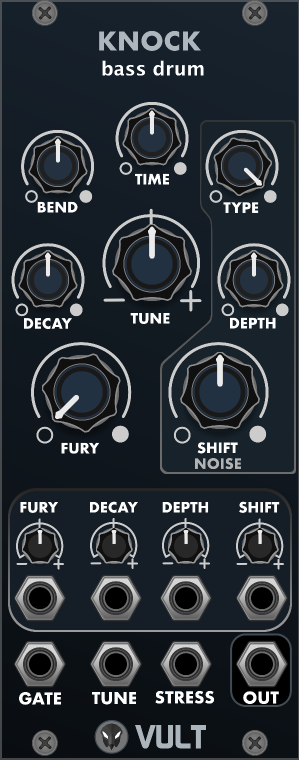
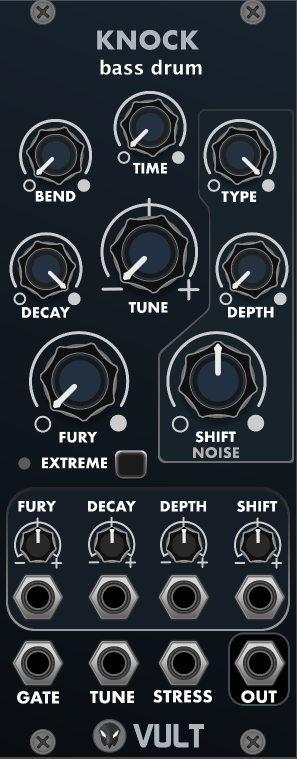
Improves the documentation of Basal, Bleak, Knock and Leakage

diff --git a/themes/vultmodules/layouts/partials/menu.html b/themes/vultmodules/layouts/partials/menu.html
@@ -60,6 +60,7 @@
       <a class="nav-link dropdown-toggle" data-toggle="dropdown" href="#" role="button" aria-haspopup="true"
          aria-expanded="false">Utilities</a>
       <div class="dropdown-menu">
+         <a class="dropdown-item" href="/leakage">Leakage</a>
          <a class="dropdown-item" href="/flux">Flux</a>
          <a class="dropdown-item" href="/spank">Spank</a>
          <a class="dropdown-item" href="/slap">Slap</a>

diff --git a/themes/vultmodules/layouts/index.html b/themes/vultmodules/layouts/index.html
@@ -139,6 +139,8 @@
 
          <ul>
             <li>
+               <a href="leakage/">Leakage</a>: Voltage Processor</li>
+            <li>
                <a href="flux/">Flux</a>: Quad Voltage Processor</li>
             <li>
                <a href="https://modlfo.github.io/VultModules/spank/">Spank</a>: Drum Envelope.</li>

diff --git a/content/Knock.md b/content/Knock.md
@@ -8,6 +8,41 @@ image = "../images/Knock.png"
 <center>Included in: <a href="/compacts/" class="btn btn-primary" role="button">VultCompacts</a> </center>
 
 
-Knock is the ultimate bass drum. Unlike Trummor 2, Knock is specialized in bass percussions. It has a wide range of sounds and it produces usable result in every setting.
+Knock is a modern take on a classic analog bass drum. It features a hybrid engine capable producing a wide variety of drum sounds. The Stress input allows for further shaping of the sound by using a vactrol model to control the envelope.
 
-Full documentation coming soon.
+Knock is split in two sections: the oscillator and noise synthesizers. The oscillator section is analog modeled while the noise is a special oscillator capable of producing many kinds of clicking sounds.
+
+## Documentation
+
+### Oscillator section
+
+- **Tune (Knob)**: offsets by one octave up or down the tune of the drum. When no signal is connected to the Tune input the range goes from F0 to F2.
+- **Decay**: defines how long the drum sound is.
+- **Bend**: defines the initial pitch of the drum when simulating a hit.
+- **Time**: defines how much time the pitch takes to move from the initial pitch to the actual pitch of the drum.
+- **Fury**: changes the main oscillator wave and adds distortion to achieve a more aggressive sound.
+
+### Noise section
+
+- **Type**: changes the kind of noise oscillator used.
+- **Depth**: defines the level of the noise
+- **Shift**: changes the perceived pitch of the noise
+
+### Modulation section
+
+This section provides inputs and attenuverters to modulate the following parameters:
+
+- Fury
+- Decay
+- Depth
+- Shift
+
+### Inputs and Outputs
+- **Gate**: a signal larger than 2.0 V will trigger the sound. In order to be re-triggered the signal needs to go below that threshold and up again.
+- **Tune**: defines the pitch of the drum. The given value will be offset by the Tune Knob.
+- **Stress**: this signal can be used to control the level of the sound. The control signal is passed to a Vactrol model that will soften the transitions and will provide a smoother sound. When a signal is connected 0.0 V corresponds to ~40% of the level. 10.0 V corresponds to 100% of the sound. Negative signals will reduce the level below the 40%.
+- **Out**: main output of the module.
+
+### Extreme Mode
+
+Knock has a toggle switch that will change the module to the extreme settings. In this mode, all the ranges of the parameters are expanded allowing for more aggressive sounds.

diff --git a/content/Leakage.md b/content/Leakage.md
@@ -1,0 +1,45 @@
++++
+title = "Leakage"
+date = "2017-10-28T22:37:03+03:00"
+layout = "module"
+image = "../images/Leakage.png"
++++
+
+<center>Included in: <a href="/compacts/" class="btn btn-primary" role="button">VultCompacts</a> </center>
+
+
+Leakage is a multi purpose voltage processor. It's a single line of Flux but with a few improvements. It can be used as:
+
+- Gain control
+- Offset
+- Sample and hold
+- Slew limiter (linear and exponential)
+- Envelope follower
+- Noise source
+- Gate
+
+## Documentation
+
+
+- **Range**: Attenuates/amplifies the input signal (or noise) from 0x to 2x.
+- **Offset**: Adds a constant voltage to the input signal from -5V to 5V.
+- **Follower**:
+   - **Lin**: The output signal will approach the input signal linearly at a rate defined by the *Rate* knob.
+   - **Exp**: The output signal will approach the input signal exponentially at a rate defined by the *Rate* knob.
+   - **Env**: Envelope follower, the output signal will approach exponentially to the envelope of the input signal.
+- **Rate**: Defines the speed (or time constant) at which the follower reacts.
+- **In**: Input signal. When disconnected Leakage generates noise.
+- **Clk**: Signal used to trigger the S&H. When disconnected the S&H is bypassed.
+- **Out**: Output of the processed signal.
+
+### Modulation inputs
+
+Leakage provides a pair of inputs and attenuverters to control the *Range* and the *Offset*. Modulating the Range can behave as a Gate or VCA allowing you to multiply the input signal by a second CV signal.
+
+### Special Functions
+
+Leakage behaves differently depending on which signals are connected. When the *In* signal is not connected, Leakage generates noise at it's input. When a signal is connected to the *Clk* input, Leakage becomes a Sample and Hold.
+
+## Videos
+
+<iframe width="560" height="315" src="https://www.youtube.com/embed/MeDMg5zrpZ4" frameborder="0" allow="accelerometer; autoplay; encrypted-media; gyroscope; picture-in-picture" allowfullscreen></iframe>

diff --git a/content/Bleak.md b/content/Bleak.md
@@ -7,4 +7,16 @@ image ="../images/Bleak.png"
 
 <center>Included in: <a href="/premium/" class="btn btn-primary" role="button">VultModules</a> <a href="/free/" class="btn btn-primary" role="button">VultModules Free</a> </center>
 
-Full documentation coming soon.
+Bleak is a virtual analog oscillator with zero aliassing that provides very easy to use controls to help you transform the waves. Bleak provides three waveforms that can be morphed and PW modulated.
+
+## Documentation
+
+- **Tune**: offsets the V/OCT input one octave up or down.
+- **Oct**: offsets the V/OCT input three octaves up and down.
+- **PW**: defines the pulse-with of the waves. In the case of saw and triangle an equivalent effect of the wave is provided.
+- **Wave**: morphs continuously the waves.
+   - Saw: full left
+   - Pulse: center
+   - Triangle: full right
+- **V/OCT**: this is the main input of the oscillator. It defines the pitch using the 1V per octave convention. Zero volts corresponds to a C3 note.
+- **Out**: main output of the oscillator.

diff --git a/content/Basal.md b/content/Basal.md
@@ -7,4 +7,13 @@ image ="../images/Basal.png"
 
 <center>Included in: <a href="/premium/" class="btn btn-primary" role="button">VultModules</a> <a href="/free/" class="btn btn-primary" role="button">VultModules Free</a> </center>
 
-Full documentation coming soon.
+Basal is a easy to use and nice sounding oscillator. It's specifically designed for creating smooth sounds with low harmonic content. Basal features a self modulation technique that acts when the oscillator is moved.
+
+## Documentation
+
+- **Tune**: offsets the V/OCT input one octave up or down.
+- **Oct**: offsets the V/OCT input three octaves up and down.
+- **Mod 1**: creates overtones by distorting the phase of the main oscillator.
+- **Mod 2**: increases the number of harmonics.
+- **V/OCT**: this is the main input of the oscillator. It defines the pitch using the 1V per octave convention. Zero volts corresponds to a C3 note.
+- **Out**: main output of the oscillator.
